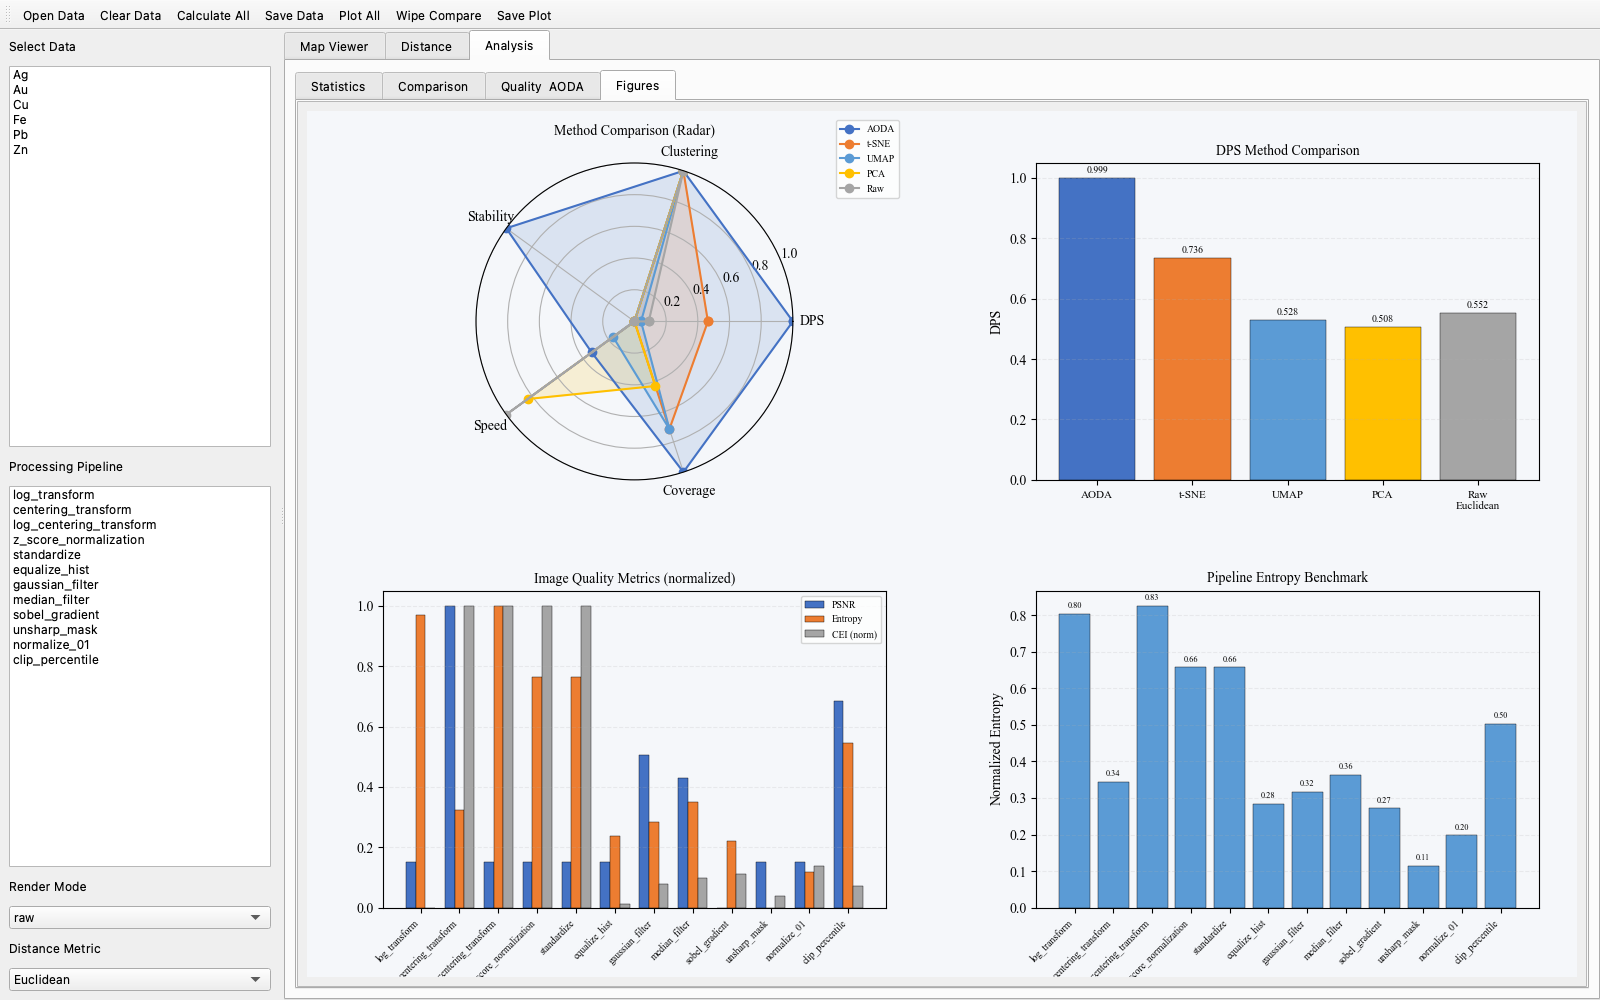
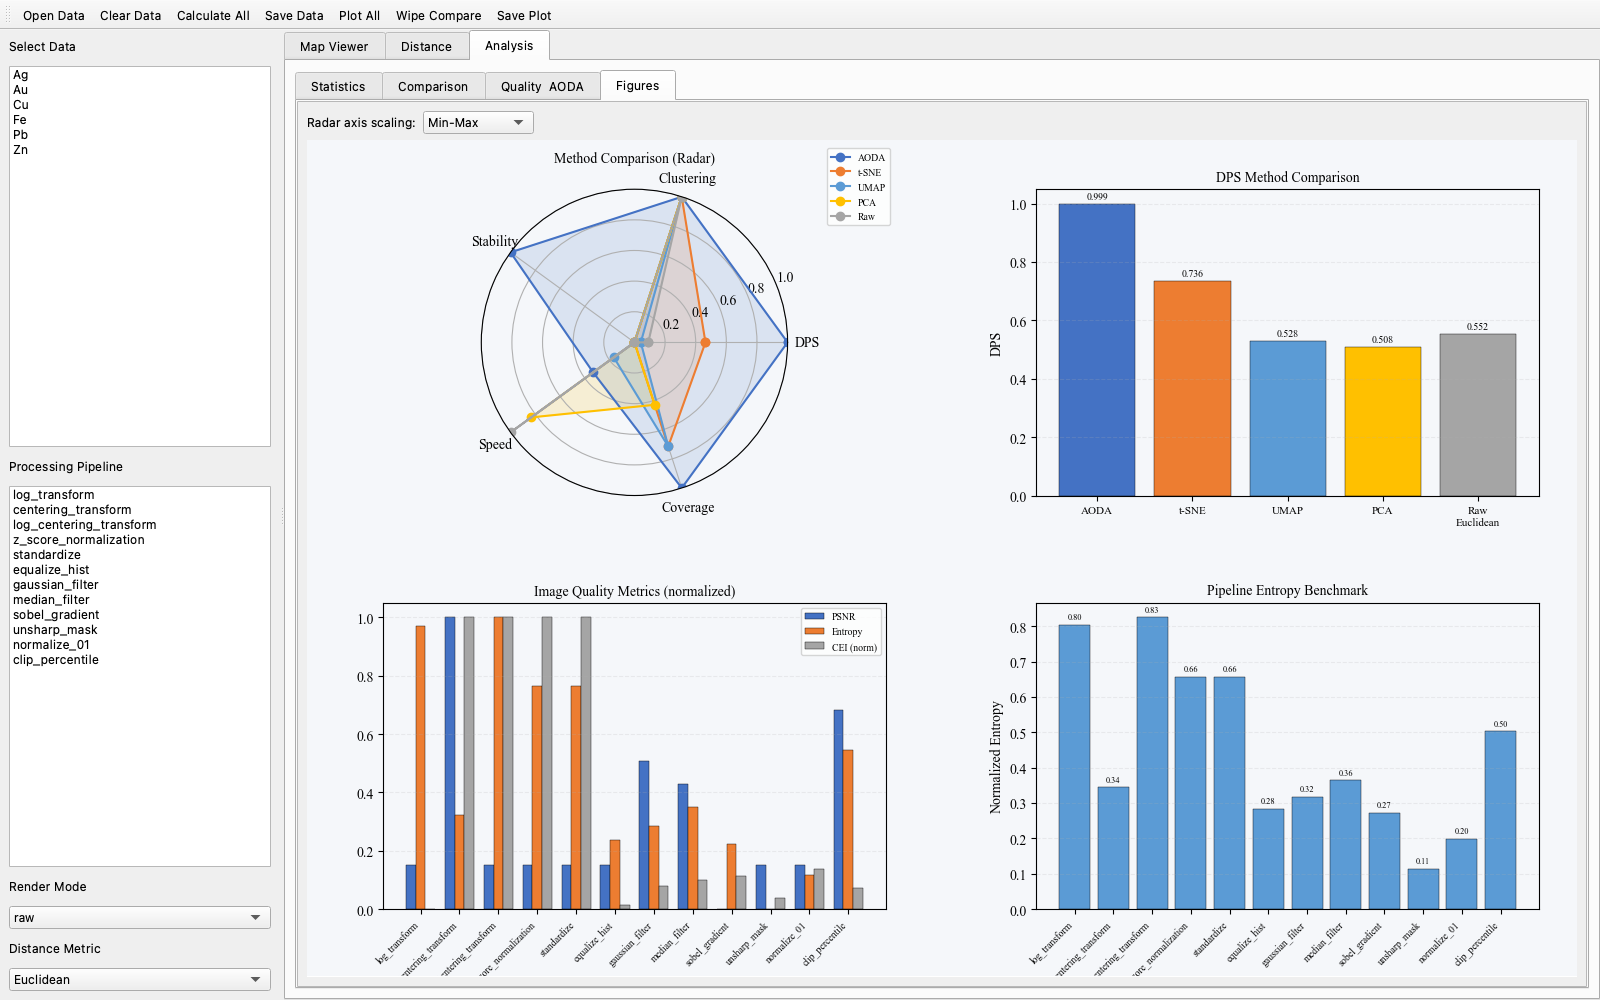
v1.3.9: radar chart per-dimension axis scaling (Min-Max/Z-Score/Log/Sqrt)

diff --git a/cpsvisualizer/src/cpsvisualizer/app.py b/cpsvisualizer/src/cpsvisualizer/app.py
@@ -662,6 +662,17 @@ class CPSVisualizer(QMainWindow):
     def _build_figures_pane(self, parent):
         sc, inner = self._scroll_pane()
         v = QVBoxLayout(inner)
+
+        mode_bar = QHBoxLayout()
+        mode_bar.addWidget(QLabel('Radar axis scaling:'))
+        self._radar_mode = QComboBox()
+        self._radar_mode.addItems(['Min-Max', 'Z-Score', 'Log+MinMax', 'Sqrt+MinMax'])
+        self._radar_mode.currentTextChanged.connect(
+            lambda _: self._on_analysis_tab_changed(3))
+        mode_bar.addWidget(self._radar_mode)
+        mode_bar.addStretch(1)
+        v.addLayout(mode_bar)
+
         self._fig_canvas = FigureCanvas(Figure(figsize=(14, 10), dpi=self.dpi))
         _install_figure_export(self._fig_canvas, 'cps_figures')
         self._fig_canvas.setSizePolicy(QSizePolicy.Expanding, QSizePolicy.Expanding)
@@ -1434,6 +1445,26 @@ class CPSVisualizer(QMainWindow):
                 scores[m] = [0.5] * 5
 
         import numpy as _np
+        mode = 'Min-Max'
+        if hasattr(self, '_radar_mode'):
+            mode = self._radar_mode.currentText()
+        # apply per-dimension pre-scaling before min-max
+        for d in range(5):
+            vals = [float(scores[m][d]) for m in methods]
+            vmin = min(vals)
+            if mode == 'Z-Score':
+                mu, sig = _np.mean(vals), _np.std(vals) or 1.0
+                vals = [(v - mu) / sig for v in vals]
+            elif mode == 'Log+MinMax':
+                shift = max(0, 1.0 - vmin)
+                vals = [np.log1p(v + shift) for v in vals]
+            elif mode == 'Sqrt+MinMax':
+                shift = max(0, 0.0 - vmin + 1e-6)
+                vals = [np.sqrt(v + shift) for v in vals]
+            # store back
+            for mi, m in enumerate(methods):
+                scores[m][d] = vals[mi]
+        # min-max normalise each dimension to [0, 1]
         for d in range(5):
             vals = [scores[m][d] for m in methods]
             vmin, vmax = min(vals), max(vals)

diff --git a/cpsvisualizer/src/setup.py b/cpsvisualizer/src/setup.py
@@ -15,7 +15,7 @@ except Exception:
 
 setup(
     name='cpsvisualizer',
-    version='1.3.8',
+    version='1.3.9',
     description='CPS-Visualizer: Visualization, similarity measurement, and statistical analysis of LA-ICP-MS surface scan data.',
     long_description=README,
     long_description_content_type='text/markdown',
